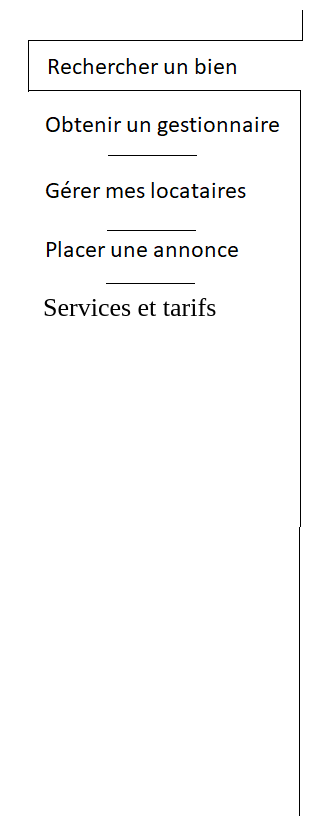
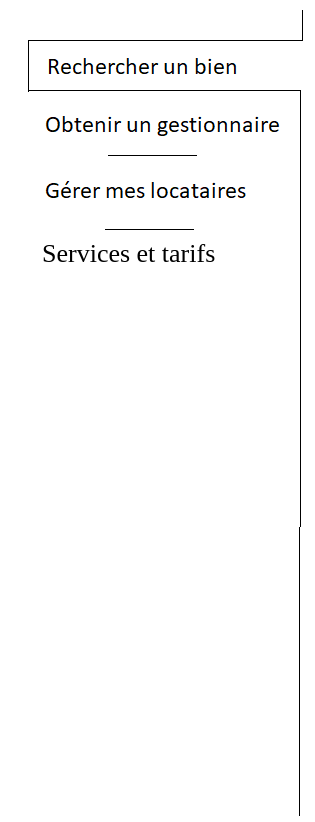
towards rentier business model

Changed region(s): [[0.1429, 0.2737, 0.7429, 0.3345], [0.1429, 0.365, 0.4857, 0.3954], [0.5143, 0.365, 0.6857, 0.3954]]

diff --git a/wireframe/home.html b/wireframe/home.html
@@ -4,7 +4,7 @@
   <meta charset="utf-8">
   <title>Propr.io</title>
   <script type="text/javascript">
-  // Leny, si tu regardes la structure de cette page, ne me juge pas.
+
 
    var search_tracker = 'search';
 
@@ -33,14 +33,10 @@
       menu_tracker='meslocataires';
       }
       else if(menu_tracker=='meslocataires'){
-      image.src='img/home/leftmenu/leftmenu_annonce.png';
+      image.src='img/home/leftmenu/leftmenu_services_tarifs.png';
       menu_tracker='services_tarifs';
       }
       else if(menu_tracker=='services_tarifs'){
-      image.src='img/home/leftmenu/leftmenu_services_tarifs.png';
-      menu_tracker='annonce';
-      }
-      else if(menu_tracker=='annonce'){
       image.src='img/home/leftmenu/leftmenu_rechercher.png';
       menu_tracker='search';
       }
@@ -57,11 +53,10 @@
 Au dessus, un en-tête permettant la connexion à l'application web de gestion locative.<br>
 En dessous de cet en-tête, deux liens simulant la connexion à un compte propriétaire et un compte locataire.<br>
 Le reste de la page démarrant en dessous de ces deux liens concerne la partie "référencement" de Propr.io,<br>
-inspirée des sites d'annonces immobilières (Immoweb, Immovlan, Zimmo, etc.). Elle comporte 5 onglets :<br>
+inspirée des sites d'annonces immobilières (Immoweb, Immovlan, Zimmo, etc.). Elle comporte les onglets suivant ;<br>
 - "Rechercher un bien", une recherche dans une base de données d'annonces générées à partir des informations recues par l'application web de gestion locative,<br>
 - "Obtenir un gestionnaire", un gestionnaire personnel gère les visites, états des lieux, problèmes éventuels du locataire, etc. Cet onglet explique cette possibilité.<br>
 - "Gérer mes locataires" présente l'application web de gestion locative.<br>
-- "Placer une annonce" permet à un propriétaire n'ayant pas accès à l'application web de gestion locative de poster une annonce. Celle-ci est limitée en taille et en référencement sur l'onglet "Rechercher un bien".<br>
 - "Services et tarifs" résume les différents comptes et tarifs possibles pour une vue plus claire des options précédentes.<br><br>
 
 Cliquez sur une annonce pour en voir un exemple.
